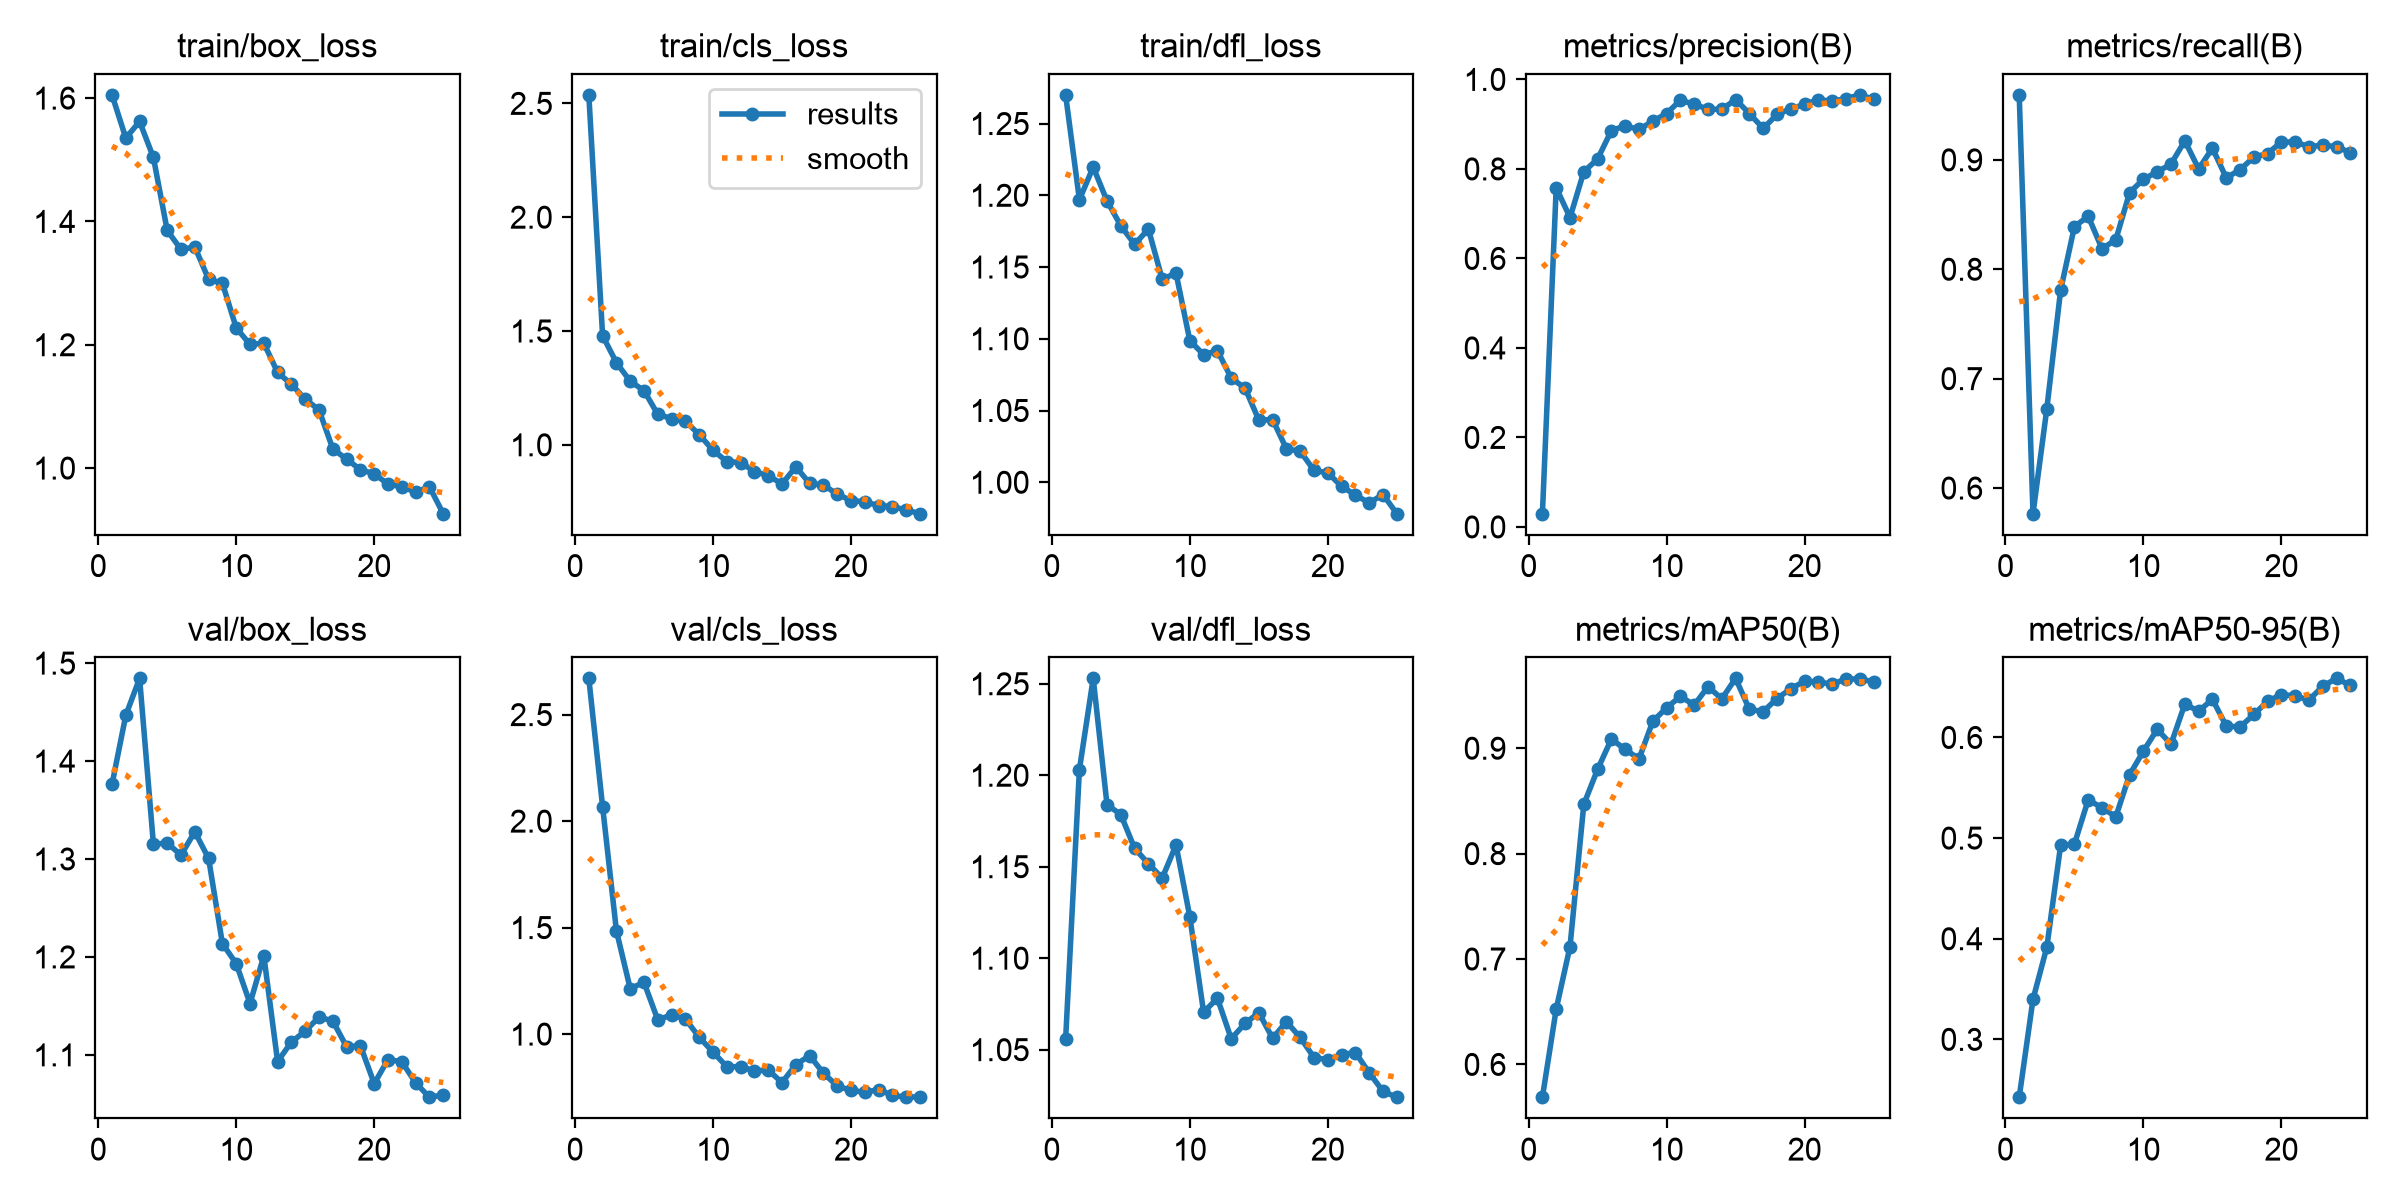
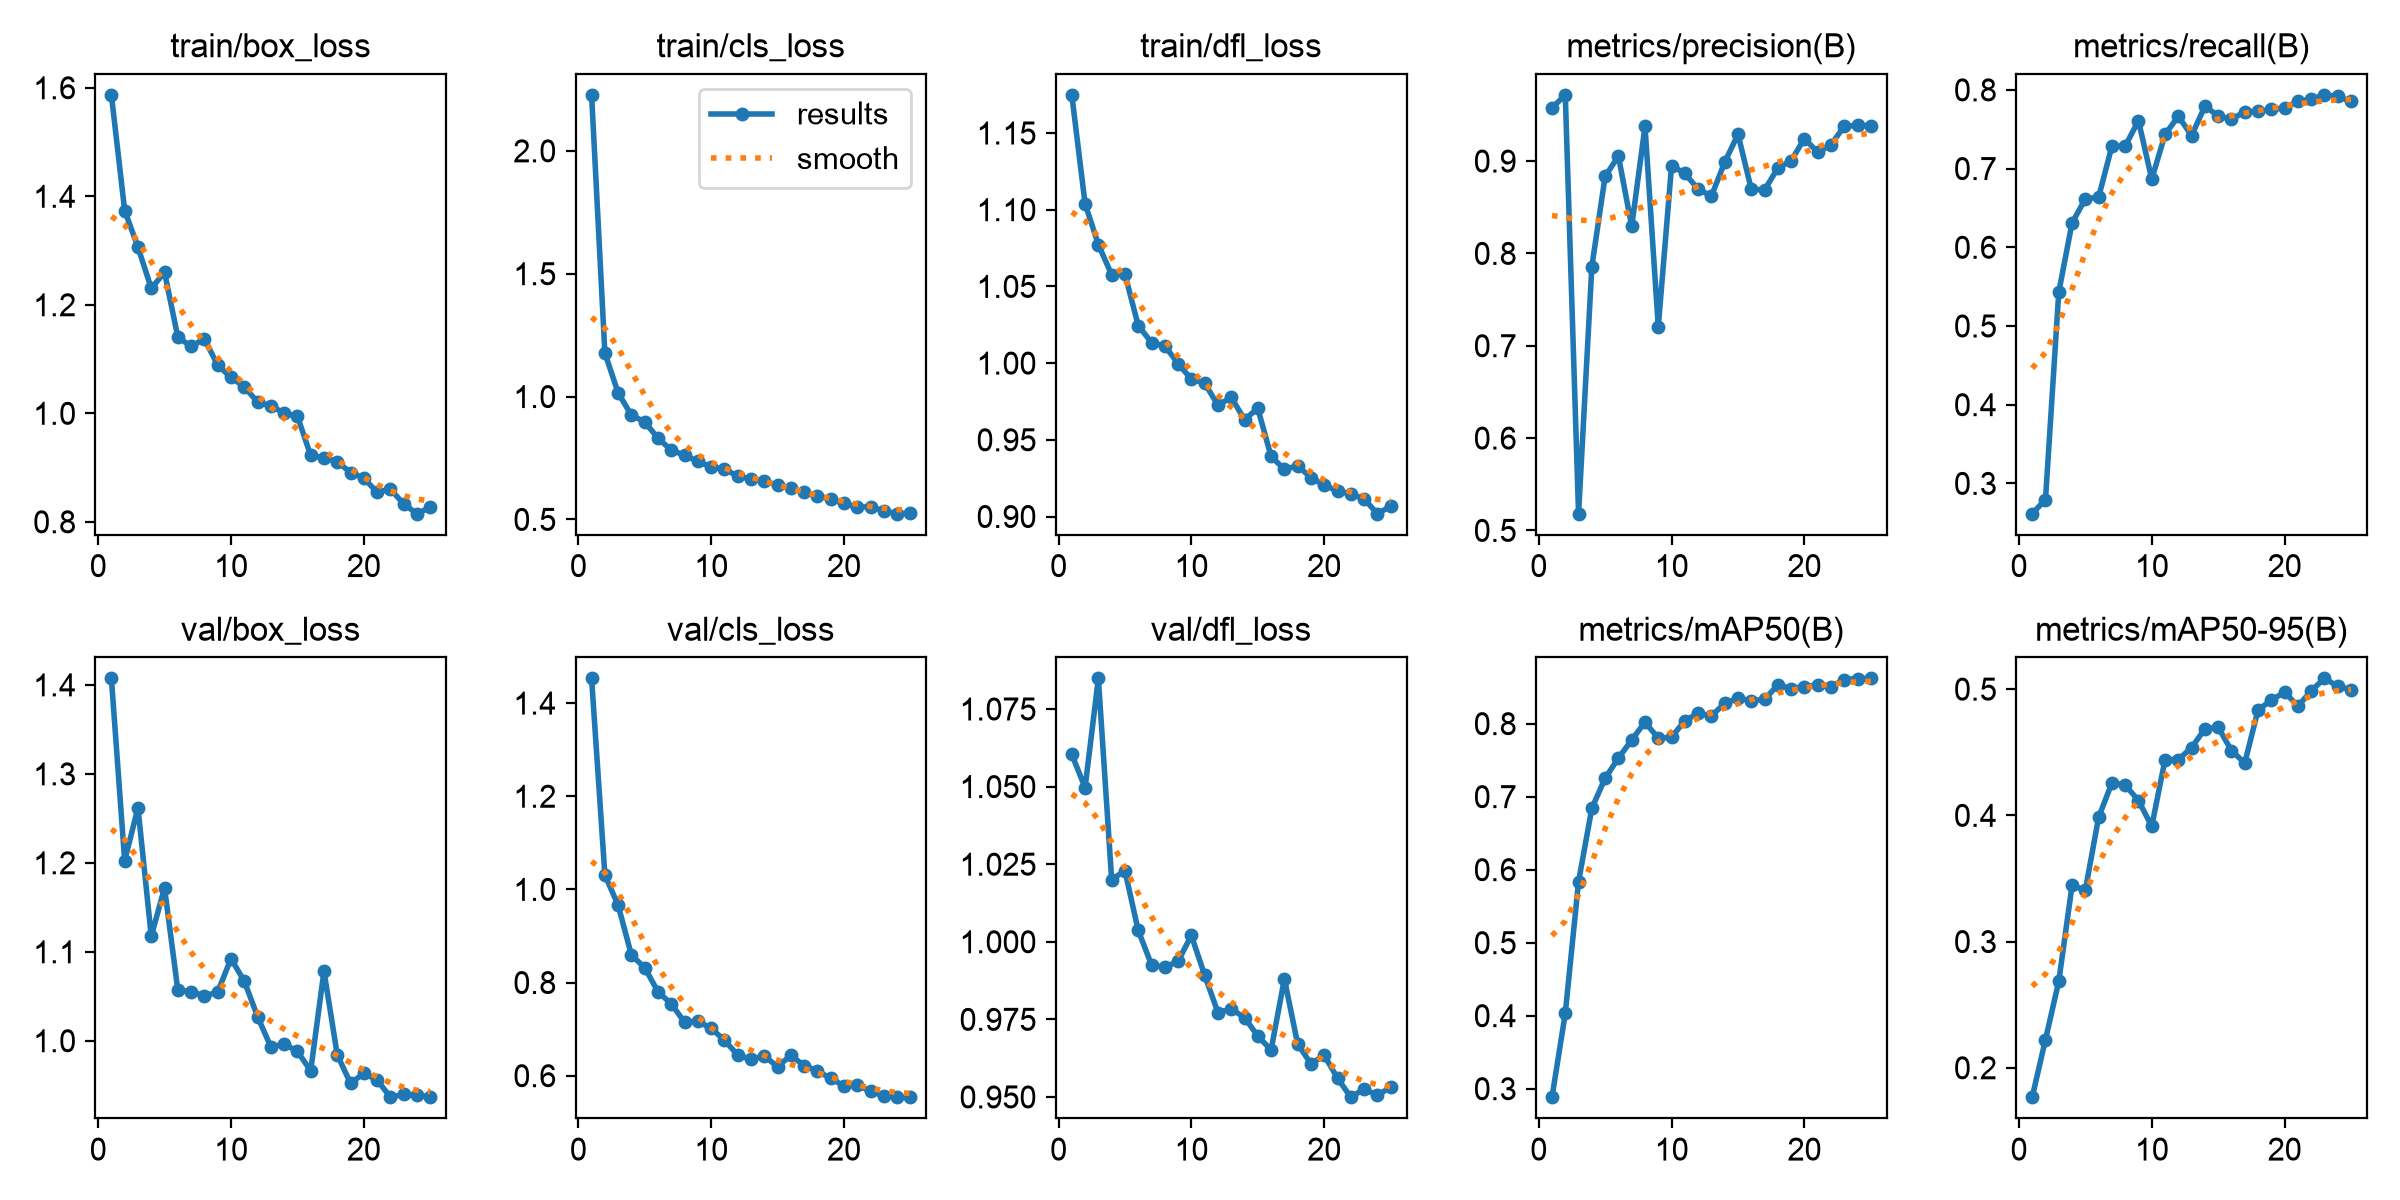
V6: quantify the proximity ceiling; make the answer key detector-independent
Measured on the sample clip: median separation between nearest player and
runner-up is 0.21 body-heights, and in 61% of frames the runner-up is within
0.3. Box-edge distance is worse (69% ambiguous) and containment resolves only
25/67 frames. No distance metric fixes this -- on dense broadcast footage a
defender is about as close to the ball as the handler.

Also: the answer key stored track IDs, which are artefacts of a single detector
run. Retraining silently invalidated it while the gate kept reporting a score.
It now stores image positions.

diff --git a/scripts/validate_v6.py b/scripts/validate_v6.py
@@ -1,13 +1,19 @@
 """V6 — Possession heuristic sanity check (spec §6).
 
 Scores the heuristic against a hand-built answer key of known "who has the ball"
-moments. Create outputs/v6_answer_key.json first by watching the annotated V4
-video and recording 10 timestamps with the track ID that visibly has the ball:
+moments, recorded as IMAGE POSITIONS rather than track IDs:
 
-    [{"time_s": 1.4, "track_id": 3}, {"time_s": 2.8, "track_id": 7}, ...]
+    [{"time_s": 1.1, "x": 895, "y": 420, "note": "..."},
+     {"time_s": 7.1, "x": null, "y": null, "note": "ball in flight"}]
 
-The key is judged against the SAME track IDs the tracker produced, so build it
-from outputs/v4_tracking.mp4, not from jersey numbers.
+Positions, not IDs, because a track ID is an artefact of one particular detector
+and tracker run. An earlier version of this key stored IDs; retraining the
+detector silently invalidated every entry, and the gate went on reporting a
+number as if it still meant something. A point on the ball-handler's body is a
+fact about the footage and survives any model change.
+
+`x`/`y` null means nobody is in possession (ball in flight, loose ball).
+Build the key by eye from outputs/v4_tracking.mp4 or the raw clip.
 """
 
 from __future__ import annotations
@@ -64,11 +70,28 @@ def main() -> int:
         # Nearest sampled frame to the annotated moment.
         frame = min(frames, key=lambda f: abs(f.time_s - entry["time_s"]))
         predicted = timeline[frame.index]
-        if predicted == entry["track_id"]:
+
+        # Resolve the annotated point to whichever track covers it now.
+        x, y = entry.get("x"), entry.get("y")
+        if x is None or y is None:
+            expected = None
+        else:
+            expected = None
+            for track in frame.players():
+                if (track.box.x1 <= x <= track.box.x2
+                        and track.box.y1 <= y <= track.box.y2):
+                    expected = track.track_id
+                    break
+            if expected is None:
+                misses.append({"time_s": entry["time_s"], "want": "no track at "
+                               f"({x},{y})", "got": predicted})
+                continue
+
+        if predicted == expected:
             correct += 1
         else:
             misses.append(
-                {"time_s": entry["time_s"], "want": entry["track_id"], "got": predicted}
+                {"time_s": entry["time_s"], "want": expected, "got": predicted}
             )
 
     import math

diff --git a/docs/superpowers/plans/2026-08-28-nba-vision-pipeline-v1.md b/docs/superpowers/plans/2026-08-28-nba-vision-pipeline-v1.md
@@ -14,53 +14,63 @@
 
 ## Execution status (2026-08-28)
 
-**Tasks 1–11 complete. 80 tests passing. V1–V5 PASS on real NBA footage.**
+**V1–V5 PASS on real NBA footage. V6 blocked by a measured ceiling. V7 retraining.**
 
 | Gate | Status |
 |---|---|
-| V1 extraction | **PASS** — 60fps × 9.45s → 94 frames at 10fps |
-| V2 stock detector | **PASS** — 12–16 players/frame, boxes verified by eye |
-| V3 detector fine-tune | **PASS** — mAP50-95 **0.465 → 0.659** on SportsMOT val |
-| V4 tracking | **PASS** — 92.8% of detections on tracks lasting ≥10 frames |
-| V5 team assignment | **PASS** — clean split, DET dark vs BKN white, verified by eye |
-| V6 possession | **FAIL ×2 — stopped and flagged per spec §9.6** (see below) |
-| V7 action classifier | running (2nd attempt, supervised backbone) |
+| V1 extraction | **PASS** |
+| V2 stock detector | **PASS** — 12–16 players/frame |
+| V3 detector fine-tune | **PASS** — mAP50-95 **0.125 → 0.508**, player/ball/rim |
+| V4 tracking | **PASS** — 96.0% of detections on tracks lasting ≥10 frames |
+| V5 team assignment | **PASS** — verified visually |
+| V6 possession | **FAIL — measured ceiling, flagged per §9.6** |
+| V7 action classifier | retraining on SpaceJam (dribble/pass/shot/other) |
 | V8 commentary | **BLOCKED** — no `ANTHROPIC_API_KEY` |
 | V9 end-to-end | blocked on V6, V7, V8 |
 
-### V6 is blocked on ball detection, and spec §9.6 says stop
+### Data sources (all free, all licensed)
 
-Possession is 2/5 against a hand-built answer key. The cause is **not** the
-possession logic — instrumenting the failures showed `raw_holder` returns the
-correct player whenever the ball is actually detected. The cause is the ball
-detector:
+| Use | Source | Licence |
+|---|---|---|
+| Clips (sample/holdout) | BARD, NBA broadcast | CC BY 4.0 |
+| Detector (player/ball/rim) | Roboflow `basketball-player-detection-3` v18 | CC BY 4.0 |
+| Actions (dribble/pass/shot/other) | SpaceJam, Kaggle mirror | MIT |
 
-* COCO `sports ball` via **yolo11n** found the ball in **0 of 104 frames** at
-  conf 0.25 (peak confidence 0.116). Swapping to **yolo11x** fixed that — peak
-  0.652 — and it is now the ball backbone.
-* Even so, coverage is only **67%** at conf 0.05. Dropping to conf 0.02 raises
-  coverage to 92%, but inspection showed those extra detections sit on court
-  markings and limbs, not the ball. They convert a correct "nobody has it" into
-  a confident wrong holder, so the threshold was returned to 0.05.
+### V6: proximity possession has a measured ceiling on broadcast footage
 
-One genuine fix did land on the way: the possession smoother required
-`min_hold_frames` **consecutive** frames to switch holder, which never happens
-when a third of frames have no ball, so possession stuck on stale holders. It now
-counts the next `min_hold_frames` frames in which the ball was actually *seen*,
-skipping gaps — a gap is missing data, not evidence against a candidate.
+Not a tuning problem. Measured over the sample clip, on frames where the ball is
+detected and ≥2 players are present:
 
-**The real fix is a purpose-trained ball detector.** No ball-annotated basketball
-dataset was found on Hugging Face; Roboflow Universe has several but needs an
-account. Per spec §9.6 this is flagged rather than worked around — the remaining
-levers (lower thresholds, looser distance gates) buy metrics, not correctness.
+* median separation between the nearest player and the runner-up is **0.21**
+  body-heights, and in **61% of frames the runner-up is within 0.3** — a
+  defender is about as close to the ball as the ball-handler is.
+* box-**edge** distance is *worse* than centre distance (69% ambiguous), and box
+  containment picks out exactly one player in only **25 of 67** frames.
+
+So no distance metric fixes it: on dense NBA broadcast, proximity alone is
+under-determined. This is spec §10's warning ("a proximity heuristic, not ground
+truth") quantified. Flagged rather than tuned, per §9.6.
+
+**The principled fix — and the data already exists.** The Roboflow detector
+dataset carries a `player-in-possession` class (162 instances) that this project
+currently discards in `prepare_detector_dataset.py`. Learning possession
+directly sidesteps the geometry entirely. Two other v2-grade options:
+ball-motion correlation (the ball moves with its holder; a defender does not
+move in lockstep) and pose estimation (spec §7.3 already defers pose to v2).
+
+Two real fixes did land on the way, both kept:
+1. The smoother required `min_hold_frames` **consecutive** frames to switch
+   holder, which never happens when a third of frames have no ball. It now
+   counts frames where the ball was actually *seen*, skipping gaps.
+2. The V6 answer key stored **track IDs**, which are artefacts of one detector
+   run — retraining the detector silently invalidated every entry while the gate
+   kept reporting a number. It now stores **image positions**, which are facts
+   about the footage and survive any model change.
 
 ### Still needed from the user
 
-- A **ball-annotated dataset** (or a decision to accept degraded possession).
+- A decision on V6: train `player-in-possession`, or accept the ceiling and document it.
 - `ANTHROPIC_API_KEY`, or `ant auth login`, for V8.
-
-`scripts/run_pipeline.py` and `scripts/validate_v9.py` remain unwritten: spec
-§9.3 gates them on V1–V8 passing individually.
 
 ---
 
